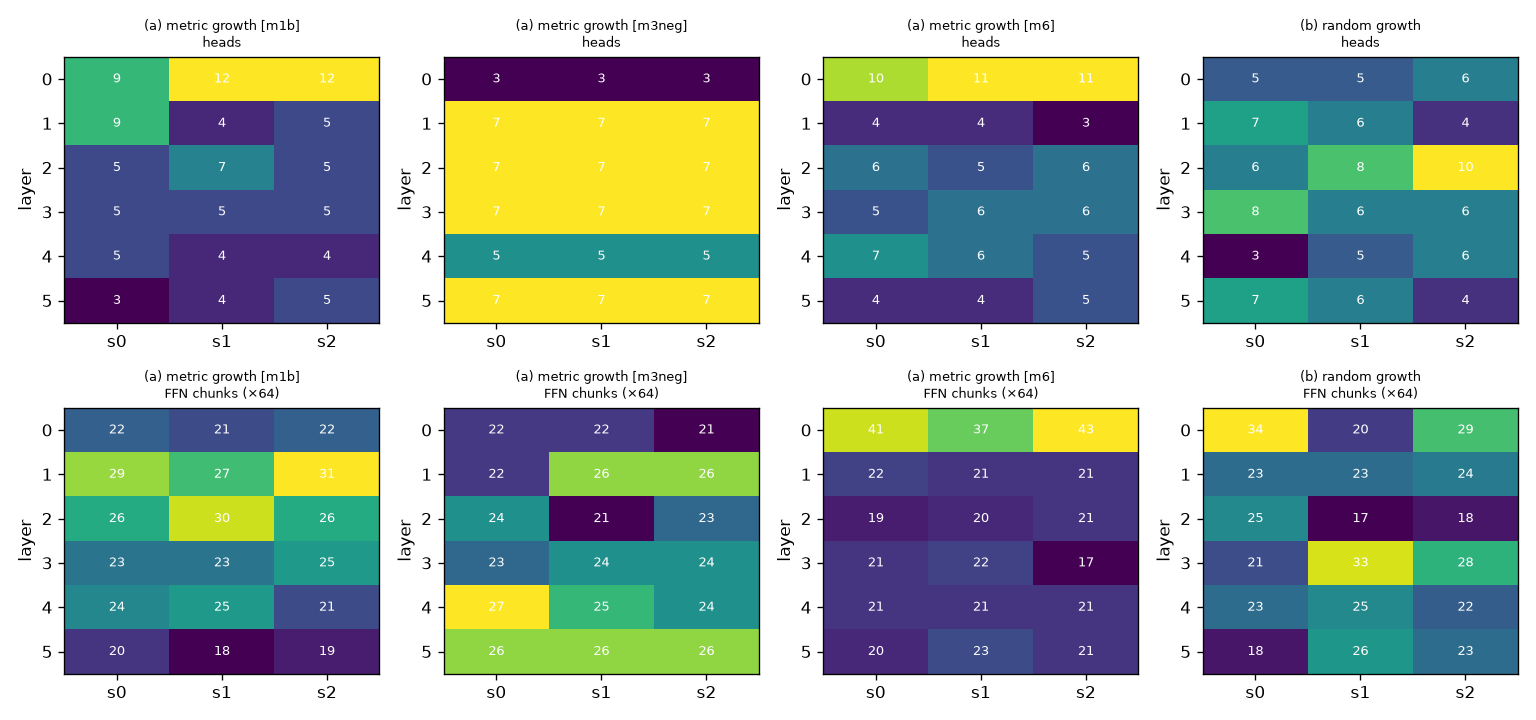
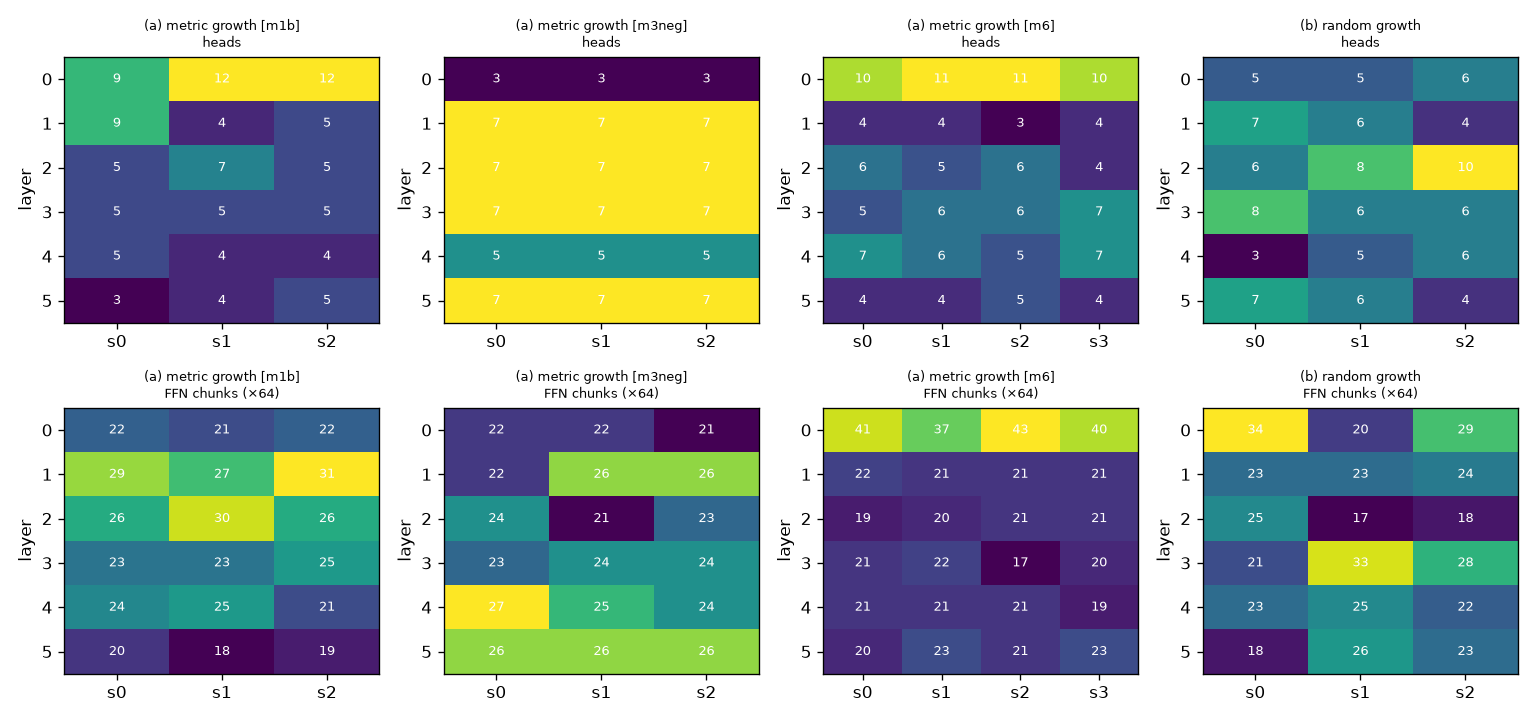
Final report, Stage 2 results (S 3-4 seeds, M 1 seed), throughput benchmark

diff --git a/scripts/bench.py b/scripts/bench.py
@@ -9,7 +9,7 @@ from train import Trainer, get_args
 
 
 def bench(scale, arm, steps=40, warm=15):
-    t = Trainer(get_args(["--scale", scale, "--arm", arm, "--run_name", f"bench_{scale}_{arm}", "--micro", "24",
+    t = Trainer(get_args(["--scale", scale, "--arm", arm, "--run_name", f"bench_{scale}_{arm}", "--micro", "24" if scale == "S" else "16",
                           "--results_dir", "runs/bench", "--runs_dir", "runs/bench"]))
     for s in range(warm):
         t.model.update_masks(s)

diff --git a/REPORT.md b/REPORT.md
@@ -4,7 +4,10 @@
 
 ## 1. TL;DR
 
-__TLDR__
+- **Metrics:** no metric predicted the single-unit growth oracle. Pooled Spearman was −0.19 (M1b) to −0.64 (M3, significantly *anti*-correlated), and the oracle itself is only weakly reliable (seed-to-seed ρ 0.20 / 0.64). **Drop M1, M1b, M2, M5, M7 as location selectors.** Keep only **M6** and the **"−M3 / late-layer" allocation** as hypotheses.
+- **Metric vs random/uniform growth: not beyond seed noise.** At S, M6 growth beat uniform growth by 0.009 ± 0.007 nats (4 seeds, p = 0.08) and random growth by 0.014 (p = 0.14). M1b, the formally top-ranked metric, was 0.010 *worse* than uniform. At M (1 seed, reduced budget), every metric arm was 0.013–0.017 worse than uniform growth.
+- **Growth itself doesn't pay at S:** uniform growth loses to a from-scratch target-size model trained at matched FLOPs (+0.0125 ± 0.007, 4 seeds, p = 0.04). At S, width growth saves only 8% of FLOPs because the tied LM head dominates. At M (1 seed, undertrained) growth beat the matched-FLOPs baseline by 0.05. Promising but unconfirmed.
+- Methodology warning: the first matched-FLOPs baseline was 0.06 worse purely because of its warmup, at an edge-of-stability LR. Comparisons of this size need a more stable LR and ≥4–5 seeds.
 
 ## 2. What was built, and test results
 
@@ -76,11 +79,75 @@ Plots: [oracle values per candidate](results/plots/stage1_oracle_values.png), [m
 
 ## 4. Stage 2 — ablation
 
-__STAGE2__
+All arms at a scale share the token budget (except (e)/(e′)), the LR, the data order per seed, and, for growth arms, the growth schedule: 8 events over 10–60% of training, start at 50% width, end at exactly the target total heads/FFN. Final parameter counts are identical across growth arms and equal to (d). "Paired" differences compare arms on the same seed (same data order). The validation loss is on 8M held-out tokens.
+
+### S (6 layers, d = 384; 250M tokens; lr 4e-3; 3 seeds, 4 for the closest comparison)
+
+| Arm | seeds | final val loss, mean ± sd | per seed | train FLOPs | isolated tokens/s ¹ |
+| --- | --- | --- | --- | --- | --- |
+| (a1) metric growth, **M1b** | 3 | 4.2122 ± 0.0126 | 4.2004, 4.2255, 4.2107 | 4.76e16 | 0.79M |
+| (a2) metric growth, **M6** | 4 | **4.1945 ± 0.0071** | 4.1842, 4.1994, 4.1951, 4.1994 | 4.86e16 | 0.79M |
+| (a3, exploratory) growth, **−M3** | 3 | 4.1967 ± 0.0097 | 4.1905, 4.2079, 4.1916 | 4.85e16 | 0.79M |
+| (b) random growth | 3 | 4.2073 ± 0.0134 | 4.2016, 4.2226, 4.1977 | 4.80e16 | 0.79M |
+| (c) uniform growth | 4 | 4.2039 ± 0.0069 | 4.2020, 4.2099, 4.1950, 4.2088 | 4.80e16 | 0.79M |
+| (d) scratch at target size, same tokens | 3 | 4.1893 ± 0.0276 | 4.1764, 4.1706, 4.2210 | 5.20e16 | 0.99M |
+| (e) scratch, matched FLOPs (as specified: warmup 4% of 2346 steps) | 2 | 4.2570 ± 0.0004 | 4.2567, 4.2573 | 4.80e16 | 0.99M |
+| **(e′) scratch, matched FLOPs, same 101-step warmup** | 4 | **4.1914 ± 0.0071** | 4.1962, 4.1987, 4.1849, 4.1858 | 4.80e16 | 0.99M |
+| (f) OpenELM-style linear widths (from scratch, same total size) | 3 | 4.2211 ± 0.0273 | 4.2017, 4.2093, 4.2523 | 5.20e16 | 0.99M |
+
+¹ Measured afterwards on the otherwise idle GPU (`scripts/bench.py`; results/bench_S.json). The per-run tokens/s in `summary.json` were measured with 4–8 jobs sharing the GPU and are not comparable across arms. Growth arms are 20% slower per token than a target-size model only because the static-shape implementation always computes the 2×-target pre-allocated weights.
+
+**Paired differences at S** (negative = first arm better; two-sided paired t-test, uncorrected for the ~25 comparisons in [results/stage2_tables.md](results/stage2_tables.md)):
+
+| Comparison | n | Δ mean ± sd | p | seeds where first arm is better |
+| --- | --- | --- | --- | --- |
+| M6 growth − uniform growth | 4 | −0.0094 ± 0.0073 | 0.08 | 3/4 (one tie) |
+| M6 growth − random growth | 3 | −0.0144 ± 0.0106 | 0.14 | 3/3 |
+| M1b growth − uniform growth | 3 | +0.0099 ± 0.0099 | 0.23 | 1/3 |
+| M1b growth − random growth | 3 | +0.0049 ± 0.0073 | 0.37 | 1/3 |
+| −M3 growth − uniform growth (exploratory) | 3 | −0.0056 ± 0.0051 | 0.20 | 3/3 |
+| −M3 growth − random growth (exploratory) | 3 | −0.0106 ± 0.0043 | 0.05 | 3/3 |
+| random growth − uniform growth | 3 | +0.0050 ± 0.0068 | 0.33 | 1/3 |
+| uniform growth − (e′) scratch, matched FLOPs (**Claim A**) | 4 | **+0.0125 ± 0.0073** | **0.04** | 0/4 |
+| M6 growth − (e′) scratch, matched FLOPs | 4 | +0.0031 ± 0.0115 | 0.62 | 1/4 |
+| uniform growth − (d) scratch, same tokens | 3 | +0.0130 ± 0.0345 | 0.58 | 1/3 |
+| (f) OpenELM − (d) scratch | 3 | +0.0318 ± 0.0067 | 0.01 | 0/3 |
+| (e′) − (e): same run, warmup 101 vs 93 steps | 2 | −0.0596 ± 0.0014 | 0.01 | 2/2 |
+
+### M (8 layers, d = 640; **300M tokens, 1 seed**, lr 2.5e-3; reduced scope, see §6)
+
+| Arm | final val loss | Δ vs uniform growth | train FLOPs | isolated tokens/s |
+| --- | --- | --- | --- | --- |
+| (a1) metric growth, M1b | 3.9991 | +0.0137 | 1.31e17 | 0.38M |
+| (a2) metric growth, M6 | 3.9986 | +0.0132 | 1.34e17 | 0.38M |
+| (a3, exploratory) growth, −M3 | 4.0025 | +0.0171 | 1.33e17 | 0.38M |
+| (b) random growth | 3.9920 | +0.0067 | 1.32e17 | 0.38M |
+| (c) uniform growth | **3.9853** | 0 | 1.32e17 | 0.38M |
+| (d) scratch, same tokens | **3.9767** | −0.0086 | 1.48e17 | 0.51M |
+| (e) scratch, matched FLOPs (same 91-step warmup) | 4.0359 | +0.0505 | 1.32e17 | 0.51M |
+
+(f) was not run at M. With one seed, and an S seed-to-seed sd of ~0.007–0.013 for growth arms, the M metric-vs-uniform gaps (0.013–0.017) are suggestive at most. Their sign is *opposite* to S for M6 and −M3.
+
+### What this says
+
+- **Does the metric earn its place? No, not on this evidence.** The protocol-selected metrics split: M6 looks mildly better than uniform/random at S (p = 0.08 / 0.14), while M1b is worse than both. At M, all metric arms lose to uniform growth. Uniform growth ≥ random growth at both scales (by 0.005–0.007).
+- **The exploratory −M3 arm**, the only ranking that tracked the Stage-1 oracle, beat random growth in 3/3 S seeds (p = 0.05, uncorrected and post hoc) but lost to uniform at M. That is weak support for the oracle's "grow the upper layers" signal. Not a result.
+- **Timing confound.** The per-event head/FFN split is decided by the metric. M6 and −M3 put all 18 new heads into the first 3–4 events; M1b put most heads into the last 2 events (see `growth_events.csv`). At S the head-early arms did better. This may matter more than *which layer* got the unit, and it did not carry over to M. A fixed-split control would separate the two.
+- **Allocations** ([heatmap](results/plots/S_allocation_heatmaps.png)) are very reproducible across seeds for metric arms (−M3 gives identical head allocations in all 3 seeds). M6 and M1b both put 9–12 heads (the maximum is 12) into layer 0, and M6 also puts 37–43 FFN chunks there (vs 24 for uniform). −M3 adds heads to layers 1–5 and FFN to the top layers.
+- **Claim A (compute efficiency).** At S, no: the FLOP-matched from-scratch model (e′) is 0.0125 better than uniform growth in 4/4 seeds. At S the tied embedding/LM head is ~2/3 of per-token FLOPs, so starting at 50% width saves only 8% of FLOPs, too little to pay for training a smaller model for the first half. At M (1 seed; 11% FLOP saving; undertrained at ~8 tokens/param) growth beats the FLOP-matched baseline by 0.05. That is worth checking with seeds and at GPT-2 scale, where the non-embedding share is larger.
+- **Claim B (parameter efficiency at equal FLOPs):** not supported. The best growth arm (M6) ties (e′) at S (+0.003 ± 0.012) with the same parameter count and FLOPs. OpenELM-style fixed non-uniform widths were clearly *worse* than uniform (+0.032, p = 0.01).
+- **Noise caveat.** Full-width from-scratch runs at lr 4e-3 are much noisier (sd 0.028) than growth runs (sd ~0.007–0.013), because 4e-3 is near the stability edge: one bad seed (seed 2) hurt both (d) and (f). The (e) vs (e′) warmup artifact is the same phenomenon.
 
 ## 5. Plots
 
-__PLOTS__
+- Validation loss vs tokens, per arm (seed mean bold, seeds faint): [S](results/plots/S_val_vs_tokens.png), [M](results/plots/M_val_vs_tokens.png)
+- Validation loss vs training FLOPs: [S](results/plots/S_val_vs_flops.png), [M](results/plots/M_val_vs_flops.png)
+- Per-layer allocation heatmaps (heads, FFN chunks) for metric-driven and random arms: [S](results/plots/S_allocation_heatmaps.png), [M](results/plots/M_allocation_heatmaps.png)
+- Stage 1: [oracle values per candidate](results/plots/stage1_oracle_values.png), [metric vs oracle ranks](results/plots/stage1_metric_vs_oracle.png)
+
+The periodic val points use the first 2M val tokens and the final point uses all 8M, hence the small hook at the end of every curve.
+
+Per-run artifacts: `results/runs/<run>/` (config.json, train_log.csv, val_log.csv, growth_events.csv, metric_log.json, summary.json). LR sweep: `results/lrsweep/`. Stage 1: `results/oracle/`.
 
 ## 6. What failed, was cut, or deviated from the prompt
 
@@ -99,15 +166,15 @@ Full log with alternatives: [DECISIONS.md](DECISIONS.md). Timeline and incidents
 
 **Deviations / judgement calls that matter for interpretation**
 - LR 4e-3 (sweep optimum) is close to the instability edge (8e-3 diverged). Full-width from-scratch runs are therefore much noisier across seeds (sd 0.028) than growth runs, which start small (sd ~0.008).
-- The per-event split between heads and FFN is decided by the metric (per the prompt), so metric arms add heads earlier than uniform/random and spend ~1–1.5% more training FLOPs (attention term). Final parameter counts are identical across growth arms.
+- The per-event split between heads and FFN is decided by the metric (per the prompt), so metric arms add heads at different times than uniform/random (M6 and −M3 early, M1b late) and their training FLOPs differ by −0.7% to +1.4% (attention term). Final parameter counts are identical across growth arms.
 - Stage-2 metric selection followed the protocol (top 2 pooled ρ = M1b, M6) even though neither passed the go criterion. The extra −M3 arm is exploratory and was chosen post hoc.
 - Metric scores are EMA-smoothed (β = 0.5) over evaluations every ~60 steps on 64k held-out tokens. Metric compute is logged separately (M6: ~60 s per run, −M3: ~110 s, M1b: ~25 s, vs ~25–30 min runs). It is not included in train FLOPs.
 - Tokens/s for growth arms reflect the static-shape implementation: every run computes the 2×-target pre-allocated model regardless of how many units are active, so growth runs are ~1.3–1.5× slower per token than a target-size model. This is an implementation cost, not intrinsic to growth.
 
 ## 7. Recommended next steps (Stage 3)
 
-1. **Do not carry the current metric set forward as-is.** None of M1, M1b, M2, M3, M5, M6, M7 predicted the single-unit oracle, and M1b (the Stage-2 "winner") did not beat random growth. If a metric goes to Stage 3, carry **M6** (cheap, 3/3 seeds better than random growth at S, but p = 0.14) and the **−M3 / "late-layer" allocation** (the only ranking that tracked the oracle; 3/3 seeds better than random, p = 0.05 uncorrected), and treat both as hypotheses, not results.
+1. **Do not carry the current metric set forward as-is.** None of M1, M1b, M2, M3, M5, M6, M7 predicted the single-unit oracle, and M1b (the Stage-2 "winner") did not beat random growth. If a metric goes to Stage 3, carry **M6** (cheap; better than uniform in 3/4 S seeds, p = 0.08, but worse at M) and the **−M3 / "late-layer" allocation** (the only ranking that tracked the oracle; better than random in 3/3 S seeds, p = 0.05 uncorrected, worse at M), and treat both as hypotheses, not results.
 2. **Fix the oracle before trusting any metric ranking.** Single units (0.5% of params) give effects the size of run-to-run noise. Options: grow larger candidate units (e.g. +25% of a layer); average ≥4 init seeds; use deterministic kernels so control noise is 0; or measure the oracle at the end of a full schedule instead of after 400 steps.
-3. **Settle Claim A before scaling up.** At S, growth does not beat a FLOP-matched scratch model (uniform growth is 0.009 worse than (e′), 3/3 seeds). Part of the reason: at S the tied LM head is ~2/3 of the FLOPs, so growing only width saves just 8%. At GPT-2 scale (124M/350M) the non-embedding share is larger, so the potential saving is too. Re-test there with a compact (gathered) implementation so wall-clock savings are real.
+3. **Settle Claim A before scaling up.** At S, growth does not beat a FLOP-matched scratch model (uniform growth is 0.0125 worse than (e′), 4/4 seeds). At M it did (0.05, 1 seed): rerun M with ≥3 seeds and the full 800M tokens first. Part of the reason: at S the tied LM head is ~2/3 of the FLOPs, so growing only width saves just 8%. At GPT-2 scale (124M/350M) the non-embedding share is larger, so the potential saving is too. Re-test there with a compact (gathered) implementation so wall-clock savings are real.
 4. **Use a more stable LR** (or LR re-warmup for new units) in the next round, e.g. 2e-3–3e-3 at S. At 4e-3, seed noise for full-width models (sd 0.028) swamps the effects we want to measure. Use ≥4–5 seeds for any comparison under 0.01 nats.
-5. **Analyse allocation.** The two better-than-random policies made very different choices: M6 piles heads and FFN into layer 0, while −M3 adds heads to layers 1–5 and FFN to the top layers. So "any consistent non-uniform allocation beats random" is as plausible as "the metric matters". A fixed-allocation control (e.g. the final −M3 or M6 allocation, trained from scratch) would separate "growth path" from "final shape".
+5. **Separate "when" from "where".** Rerun the metric arms with the head/FFN split fixed per event (as in uniform/random), so the metric chooses only layers. Then The two better-than-random policies made very different choices: M6 piles heads and FFN into layer 0, while −M3 adds heads to layers 1–5 and FFN to the top layers. They also differed in *timing* (heads early). So "any consistent non-uniform allocation, or early heads, beats random" is as plausible as "the metric matters". A fixed-allocation control (e.g. the final −M3 or M6 allocation, trained from scratch) would separate "growth path" from "final shape".

diff --git a/results/stage2_tables.md b/results/stage2_tables.md
@@ -1,42 +1,74 @@
+### Scale M
+
+| arm | seeds | final val loss (mean ± std) | per-seed | train FLOPs | metric s (total) | tokens/s | final heads / FFN per layer (seed 0) |
+|---|---|---|---|---|---|---|---|
+| (a) metric growth [m1b] | 1 | 3.9991 ± nan | 3.9991 | 1.308e+17 | 38 | 79778 | [20, 9, 11, 9, 8, 9, 7, 7] / [38, 48, 41, 45, 43, 35, 33, 37]×64 |
+| (a) metric growth [m3neg] | 1 | 4.0025 ± nan | 4.0025 | 1.333e+17 | 267 | 95995 | [5, 13, 12, 12, 11, 9, 9, 9] / [36, 42, 37, 41, 41, 41, 41, 41]×64 |
+| (a) metric growth [m6] | 1 | 3.9986 ± nan | 3.9986 | 1.335e+17 | 128 | 77718 | [18, 6, 9, 9, 8, 11, 11, 8] / [62, 36, 35, 36, 37, 38, 37, 39]×64 |
+| (b) random growth | 1 | 3.9920 ± nan | 3.9920 | 1.319e+17 | 0 | 81209 | [14, 7, 10, 10, 11, 10, 10, 8] / [44, 43, 40, 39, 37, 35, 47, 35]×64 |
+| (c) uniform growth | 1 | 3.9853 ± nan | 3.9853 | 1.319e+17 | 0 | 81299 | [10, 10, 10, 10, 10, 10, 10, 10] / [40, 40, 40, 40, 40, 40, 40, 40]×64 |
+| (d) scratch, same tokens | 1 | 3.9767 ± nan | 3.9767 | 1.476e+17 | 0 | 115599 | [10, 10, 10, 10, 10, 10, 10, 10] / [40, 40, 40, 40, 40, 40, 40, 40]×64 |
+| (e) scratch, matched FLOPs | 1 | 4.0359 ± nan | 4.0359 | 1.318e+17 | 0 | 116231 | [10, 10, 10, 10, 10, 10, 10, 10] / [40, 40, 40, 40, 40, 40, 40, 40]×64 |
+
+Paired differences (same seed = same data order; negative = first arm better):
+
+| comparison | n | mean ± std | paired t-test p | per seed |
+|---|---|---|---|---|
+| (a) metric growth [m1b] − (b) random growth | 1 | +0.0071 ± nan | nan | +0.0071 |
+| (a) metric growth [m1b] − (c) uniform growth | 1 | +0.0137 ± nan | nan | +0.0137 |
+| (a) metric growth [m1b] − (d) scratch, same tokens | 1 | +0.0223 ± nan | nan | +0.0223 |
+| (a) metric growth [m1b] − (e) scratch, matched FLOPs | 1 | -0.0368 ± nan | nan | -0.0368 |
+| (a) metric growth [m3neg] − (b) random growth | 1 | +0.0105 ± nan | nan | +0.0105 |
+| (a) metric growth [m3neg] − (c) uniform growth | 1 | +0.0171 ± nan | nan | +0.0171 |
+| (a) metric growth [m3neg] − (d) scratch, same tokens | 1 | +0.0257 ± nan | nan | +0.0257 |
+| (a) metric growth [m3neg] − (e) scratch, matched FLOPs | 1 | -0.0334 ± nan | nan | -0.0334 |
+| (a) metric growth [m6] − (b) random growth | 1 | +0.0066 ± nan | nan | +0.0066 |
+| (a) metric growth [m6] − (c) uniform growth | 1 | +0.0132 ± nan | nan | +0.0132 |
+| (a) metric growth [m6] − (d) scratch, same tokens | 1 | +0.0218 ± nan | nan | +0.0218 |
+| (a) metric growth [m6] − (e) scratch, matched FLOPs | 1 | -0.0373 ± nan | nan | -0.0373 |
+| (b) random growth − (c) uniform growth | 1 | +0.0067 ± nan | nan | +0.0067 |
+| (c) uniform growth − (d) scratch, same tokens | 1 | +0.0086 ± nan | nan | +0.0086 |
+| (c) uniform growth − (e) scratch, matched FLOPs | 1 | -0.0505 ± nan | nan | -0.0505 |
+
 ### Scale S
 
 | arm | seeds | final val loss (mean ± std) | per-seed | train FLOPs | metric s (total) | tokens/s | final heads / FFN per layer (seed 0) |
 |---|---|---|---|---|---|---|---|
 | (a) metric growth [m1b] | 3 | 4.2122 ± 0.0126 | 4.2004, 4.2255, 4.2107 | 4.761e+16 | 24 | 163214 | [9, 9, 5, 5, 5, 3] / [22, 29, 26, 23, 24, 20]×64 |
 | (a) metric growth [m3neg] | 3 | 4.1967 ± 0.0097 | 4.1905, 4.2079, 4.1916 | 4.847e+16 | 107 | 156778 | [3, 7, 7, 7, 5, 7] / [22, 22, 24, 23, 27, 26]×64 |
-| (a) metric growth [m6] | 3 | 4.1929 ± 0.0078 | 4.1842, 4.1994, 4.1951 | 4.860e+16 | 62 | 159195 | [10, 4, 6, 5, 7, 4] / [41, 22, 19, 21, 21, 20]×64 |
+| (a) metric growth [m6] | 4 | 4.1945 ± 0.0071 | 4.1842, 4.1994, 4.1951, 4.1994 | 4.860e+16 | 61 | 159552 | [10, 4, 6, 5, 7, 4] / [41, 22, 19, 21, 21, 20]×64 |
 | (b) random growth | 3 | 4.2073 ± 0.0134 | 4.2016, 4.2226, 4.1977 | 4.795e+16 | 0 | 131250 | [5, 7, 6, 8, 3, 7] / [34, 23, 25, 21, 23, 18]×64 |
-| (c) uniform growth | 3 | 4.2023 ± 0.0075 | 4.2020, 4.2099, 4.1950 | 4.795e+16 | 0 | 131516 | [6, 6, 6, 6, 6, 6] / [24, 24, 24, 24, 24, 24]×64 |
+| (c) uniform growth | 4 | 4.2039 ± 0.0069 | 4.2020, 4.2099, 4.1950, 4.2088 | 4.795e+16 | 0 | 143277 | [6, 6, 6, 6, 6, 6] / [24, 24, 24, 24, 24, 24]×64 |
 | (d) scratch, same tokens | 3 | 4.1893 ± 0.0276 | 4.1764, 4.1706, 4.2210 | 5.198e+16 | 0 | 216091 | [6, 6, 6, 6, 6, 6] / [24, 24, 24, 24, 24, 24]×64 |
 | (e) scratch, matched FLOPs | 2 | 4.2570 ± 0.0004 | 4.2567, 4.2573 | 4.795e+16 | 0 | 189498 | [6, 6, 6, 6, 6, 6] / [24, 24, 24, 24, 24, 24]×64 |
-| (e') scratch, matched FLOPs, warmup 101 steps | 3 | 4.1933 ± 0.0074 | 4.1962, 4.1987, 4.1849 | 4.795e+16 | 0 | 214484 | [6, 6, 6, 6, 6, 6] / [24, 24, 24, 24, 24, 24]×64 |
+| (e') scratch, matched FLOPs, warmup 101 steps | 4 | 4.1914 ± 0.0071 | 4.1962, 4.1987, 4.1849, 4.1858 | 4.795e+16 | 0 | 226470 | [6, 6, 6, 6, 6, 6] / [24, 24, 24, 24, 24, 24]×64 |
 | (f) OpenELM-style widths | 3 | 4.2211 ± 0.0273 | 4.2017, 4.2093, 4.2523 | 5.198e+16 | 0 | 185781 | [3, 4, 5, 7, 8, 9] / [12, 17, 22, 26, 31, 36]×64 |
 
 Paired differences (same seed = same data order; negative = first arm better):
 
-| comparison | n | mean ± std | per seed |
-|---|---|---|---|
-| (a) metric growth [m1b] − (b) random growth | 3 | +0.0049 ± 0.0073 | -0.0012, +0.0029, +0.0130 |
-| (a) metric growth [m1b] − (c) uniform growth | 3 | +0.0099 ± 0.0099 | -0.0016, +0.0156, +0.0157 |
-| (a) metric growth [m1b] − (d) scratch, same tokens | 3 | +0.0229 ± 0.0326 | +0.0240, +0.0549, -0.0103 |
-| (a) metric growth [m1b] − (e) scratch, matched FLOPs | 2 | -0.0441 ± 0.0174 | -0.0564, -0.0318 |
-| (a) metric growth [m1b] − (e') scratch, matched FLOPs, warmup 101 steps | 3 | +0.0189 ± 0.0128 | +0.0042, +0.0268, +0.0259 |
-| (a) metric growth [m1b] − (f) OpenELM-style widths | 3 | -0.0089 ± 0.0296 | -0.0013, +0.0162, -0.0416 |
-| (a) metric growth [m3neg] − (b) random growth | 3 | -0.0106 ± 0.0043 | -0.0110, -0.0148, -0.0061 |
-| (a) metric growth [m3neg] − (c) uniform growth | 3 | -0.0056 ± 0.0051 | -0.0114, -0.0020, -0.0034 |
-| (a) metric growth [m3neg] − (d) scratch, same tokens | 3 | +0.0073 ± 0.0339 | +0.0141, +0.0373, -0.0294 |
-| (a) metric growth [m3neg] − (e) scratch, matched FLOPs | 2 | -0.0578 ± 0.0119 | -0.0662, -0.0494 |
-| (a) metric growth [m3neg] − (e') scratch, matched FLOPs, warmup 101 steps | 3 | +0.0034 ± 0.0080 | -0.0057, +0.0092, +0.0068 |
-| (a) metric growth [m3neg] − (f) OpenELM-style widths | 3 | -0.0244 ± 0.0318 | -0.0112, -0.0014, -0.0607 |
-| (a) metric growth [m6] − (b) random growth | 3 | -0.0144 ± 0.0106 | -0.0173, -0.0233, -0.0026 |
-| (a) metric growth [m6] − (c) uniform growth | 3 | -0.0094 ± 0.0090 | -0.0177, -0.0106, +0.0001 |
-| (a) metric growth [m6] − (d) scratch, same tokens | 3 | +0.0036 ± 0.0276 | +0.0078, +0.0288, -0.0259 |
-| (a) metric growth [m6] − (e) scratch, matched FLOPs | 2 | -0.0652 ± 0.0103 | -0.0725, -0.0579 |
-| (a) metric growth [m6] − (e') scratch, matched FLOPs, warmup 101 steps | 3 | -0.0004 ± 0.0111 | -0.0120, +0.0007, +0.0103 |
-| (a) metric growth [m6] − (f) OpenELM-style widths | 3 | -0.0282 ± 0.0254 | -0.0175, -0.0099, -0.0572 |
-| (b) random growth − (c) uniform growth | 3 | +0.0050 ± 0.0068 | -0.0004, +0.0127, +0.0027 |
-| (c) uniform growth − (d) scratch, same tokens | 3 | +0.0130 ± 0.0345 | +0.0256, +0.0394, -0.0261 |
-| (c) uniform growth − (e) scratch, matched FLOPs | 2 | -0.0511 ± 0.0052 | -0.0548, -0.0474 |
-| (c) uniform growth − (e') scratch, matched FLOPs, warmup 101 steps | 3 | +0.0090 ± 0.0029 | +0.0058, +0.0112, +0.0101 |
-| (e') scratch, matched FLOPs, warmup 101 steps − (e) scratch, matched FLOPs | 2 | -0.0596 ± 0.0014 | -0.0605, -0.0586 |
-| (f) OpenELM-style widths − (d) scratch, same tokens | 3 | +0.0318 ± 0.0067 | +0.0253, +0.0387, +0.0313 |
+| comparison | n | mean ± std | paired t-test p | per seed |
+|---|---|---|---|---|
+| (a) metric growth [m1b] − (b) random growth | 3 | +0.0049 ± 0.0073 | 0.37 | -0.0012, +0.0029, +0.0130 |
+| (a) metric growth [m1b] − (c) uniform growth | 3 | +0.0099 ± 0.0099 | 0.23 | -0.0016, +0.0156, +0.0157 |
+| (a) metric growth [m1b] − (d) scratch, same tokens | 3 | +0.0229 ± 0.0326 | 0.35 | +0.0240, +0.0549, -0.0103 |
+| (a) metric growth [m1b] − (e) scratch, matched FLOPs | 2 | -0.0441 ± 0.0174 | 0.17 | -0.0564, -0.0318 |
+| (a) metric growth [m1b] − (e') scratch, matched FLOPs, warmup 101 steps | 3 | +0.0189 ± 0.0128 | 0.12 | +0.0042, +0.0268, +0.0259 |
+| (a) metric growth [m1b] − (f) OpenELM-style widths | 3 | -0.0089 ± 0.0296 | 0.65 | -0.0013, +0.0162, -0.0416 |
+| (a) metric growth [m3neg] − (b) random growth | 3 | -0.0106 ± 0.0043 | 0.05 | -0.0110, -0.0148, -0.0061 |
+| (a) metric growth [m3neg] − (c) uniform growth | 3 | -0.0056 ± 0.0051 | 0.20 | -0.0114, -0.0020, -0.0034 |
+| (a) metric growth [m3neg] − (d) scratch, same tokens | 3 | +0.0073 ± 0.0339 | 0.74 | +0.0141, +0.0373, -0.0294 |
+| (a) metric growth [m3neg] − (e) scratch, matched FLOPs | 2 | -0.0578 ± 0.0119 | 0.09 | -0.0662, -0.0494 |
+| (a) metric growth [m3neg] − (e') scratch, matched FLOPs, warmup 101 steps | 3 | +0.0034 ± 0.0080 | 0.53 | -0.0057, +0.0092, +0.0068 |
+| (a) metric growth [m3neg] − (f) OpenELM-style widths | 3 | -0.0244 ± 0.0318 | 0.31 | -0.0112, -0.0014, -0.0607 |
+| (a) metric growth [m6] − (b) random growth | 3 | -0.0144 ± 0.0106 | 0.14 | -0.0173, -0.0233, -0.0026 |
+| (a) metric growth [m6] − (c) uniform growth | 4 | -0.0094 ± 0.0073 | 0.08 | -0.0177, -0.0106, +0.0001, -0.0094 |
+| (a) metric growth [m6] − (d) scratch, same tokens | 3 | +0.0036 ± 0.0276 | 0.84 | +0.0078, +0.0288, -0.0259 |
+| (a) metric growth [m6] − (e) scratch, matched FLOPs | 2 | -0.0652 ± 0.0103 | 0.07 | -0.0725, -0.0579 |
+| (a) metric growth [m6] − (e') scratch, matched FLOPs, warmup 101 steps | 4 | +0.0031 ± 0.0115 | 0.62 | -0.0120, +0.0007, +0.0103, +0.0135 |
+| (a) metric growth [m6] − (f) OpenELM-style widths | 3 | -0.0282 ± 0.0254 | 0.19 | -0.0175, -0.0099, -0.0572 |
+| (b) random growth − (c) uniform growth | 3 | +0.0050 ± 0.0068 | 0.33 | -0.0004, +0.0127, +0.0027 |
+| (c) uniform growth − (d) scratch, same tokens | 3 | +0.0130 ± 0.0345 | 0.58 | +0.0256, +0.0394, -0.0261 |
+| (c) uniform growth − (e) scratch, matched FLOPs | 2 | -0.0511 ± 0.0052 | 0.05 | -0.0548, -0.0474 |
+| (c) uniform growth − (e') scratch, matched FLOPs, warmup 101 steps | 4 | +0.0125 ± 0.0073 | 0.04 | +0.0058, +0.0112, +0.0101, +0.0229 |
+| (e') scratch, matched FLOPs, warmup 101 steps − (e) scratch, matched FLOPs | 2 | -0.0596 ± 0.0014 | 0.01 | -0.0605, -0.0586 |
+| (f) OpenELM-style widths − (d) scratch, same tokens | 3 | +0.0318 ± 0.0067 | 0.01 | +0.0253, +0.0387, +0.0313 |

diff --git a/STATUS.md b/STATUS.md
@@ -1,5 +1,7 @@
 # STATUS
 
+**Current state (07:50 EDT): DONE.** All planned runs finished; REPORT.md written and committed. No GPU jobs are running on server1 (0 GPU processes, no tmux sessions). Checkpoints/logs remain server-side in `~/organic-growth/runs/` (not synced); small results are in `results/`.
+
 **Start time:** 2026-09-25 00:44 EDT (04:44 UTC). **Hard deadline:** 2026-09-25 10:44 EDT.
 
 | Deadline | Milestone |
@@ -37,3 +39,5 @@
 - 04:55 S progress: M1b 3 seeds, M6 3 seeds, e' 2 seeds done; seed 2 b/c/d/f and −M3 ×3 running/pending; M next.
 - 05:45 All protocol S runs done (3 seeds; (e) 2 seeds) + exploratory −M3 ×3 + (e′) ×3. M running (scratch, uniform, M1b first; then M6, random, −M3, e). Seed 3 for M6/uniform/e′ queued behind M.
 - 06:35 M results so far (1 seed): scratch 3.9767, uniform 3.9853, M1b 3.9991, M6 3.9986. Running: M random, M −M3, M (e), S seed 3 (M6, uniform, e′).
+- 07:20 Queue empty: M arms (7) and S seed-3 runs done. Isolated throughput benchmark (idle GPU): S scratch 0.99M tok/s, S growth (2× prealloc) 0.79M, M scratch 0.51M, M growth 0.38M.
+- 07:50 Final analysis (results/stage2_tables.md), plots, REPORT.md committed. GPU idle.
